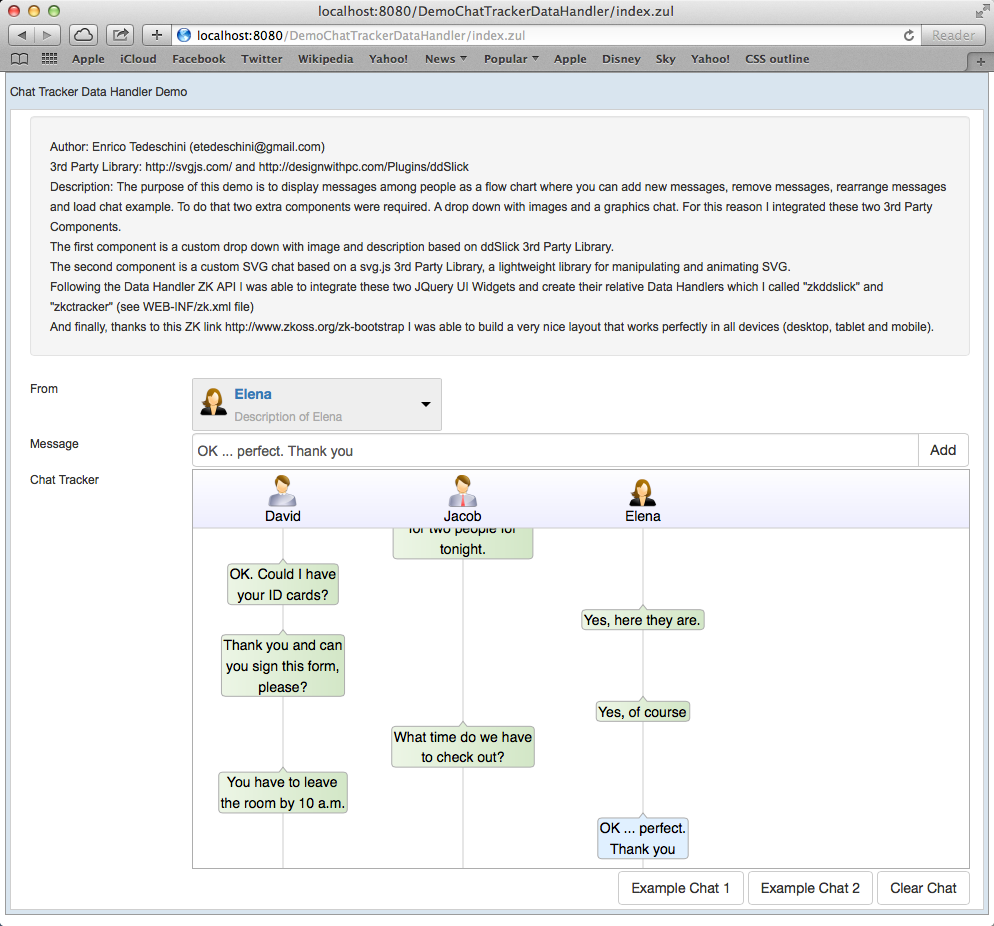
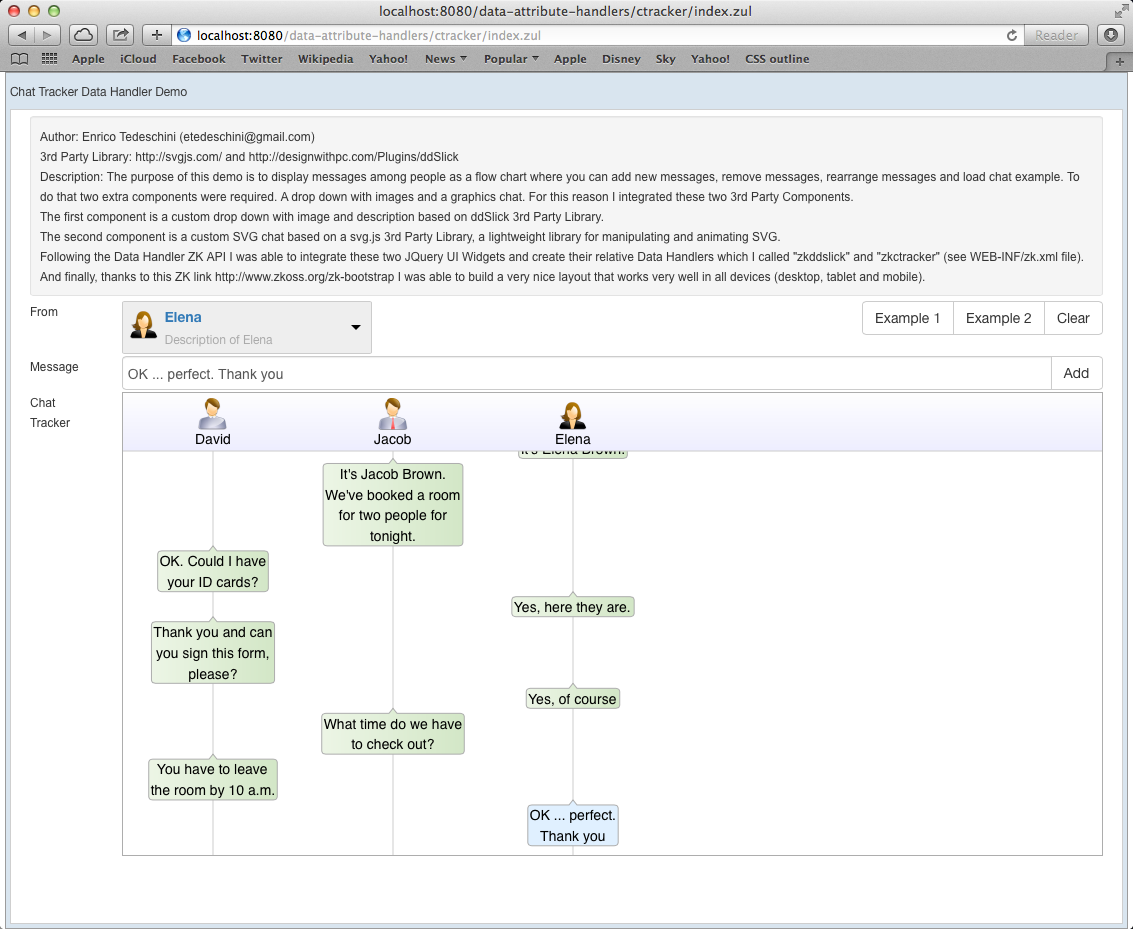
Update ctracker project
Add comments
Review page layout to work better in all devices
Update screenshot with new page layout
Add mobile screenshot

diff --git a/src/main/webapp/ctracker/js/jquery.ctracker.js b/src/main/webapp/ctracker/js/jquery.ctracker.js
@@ -36,8 +36,8 @@ $(function ($) {
         // Default settings
         defaults: {
 
-            width: 300,
-            height: 300,
+            width: 0,
+            height: 0,
             tabindex: 0,
             iconsDistance: 210,
             maxCharsPerLine: 20,
@@ -84,9 +84,13 @@ $(function ($) {
 
             // create div container with same id already assigned
             var $container = $('<div id="' + this.element.attr('id') + '"></div>')
-                .width(this.settings.width)
-                .height(this.settings.height)
                 .addClass('ctracker');
+            // set size if defined
+            if (this.settings.width)
+                container.width(this.settings.width);
+            if (this.settings.height)
+                container.height(this.settings.height);
+
             this.element.replaceWith($container);
             this.element = $container;
 
@@ -122,12 +126,13 @@ $(function ($) {
             })();
 
             // resize content to the new container size
+            /* Not required
             var self = this;
             $(window).resize(function () {
                 setTimeout (function () {
                     self._updateLayout();
                 }, 1000);
-            });
+            }); */
 
             // set initial values if available
             if (this.settings.data)
@@ -226,9 +231,25 @@ $(function ($) {
 
         /**
          * @public
+         * Set new widget height
+         */
+        setHeight: function (height) {
+
+            //if (console)
+            //    console.log("resize to height=" + height);
+
+            this.element.height(height);
+            this._updateLayout();
+        },
+
+        /**
+         * @public
          * Resize the widget
          */
         resize: function (width, height) {
+
+            //if (console)
+            //    console.log("resize to width=" + width + " and height=" + height);
 
             this.element.width(width);
             this.element.height(height);
@@ -382,13 +403,13 @@ $(function ($) {
 
         _updateLayout: function () {
 
-        	var extraSpace = 10;
+            var extraSpace = 10;
             var bbox = this._messagesLayer.bbox();
 
             // set width required
             var wRequired = 0;
             if (this._users && this._users.length > 0)
-            	this._users[this._users.length-1].x + (this.settings.iconsDistance / 2);
+                this._users[this._users.length-1].x + (this.settings.iconsDistance / 2);
             if (wRequired > 0)
                 wRequired += extraSpace;
             if (bbox.x2 > wRequired)     // special case where we have message too long
@@ -536,7 +557,7 @@ $(function ($) {
 
             // delete message
             if (this._isMouseOverTrash(p)) {
-            	// and synch the data model on server side
+                // and synch the data model on server side
                 this._deleteMessage(event.detail.event);
             }
             // position message to the closest vertical user line

diff --git a/src/main/webapp/ctracker/css/custom.css b/src/main/webapp/ctracker/css/custom.css
@@ -1,32 +1,72 @@
 /*
  * Application css for look and feel customization.
- * When we try to integrate different technologies and frameworks
+ * When we try to integrate different technologies, frameworks and devices
  * (ZK framework, JQuery UI, Boostrap, etc) sometimes happens that we have
  * unexpected behavior or unexpected look and feel.
  * Here is the right location where to fix these things
  */
 
+/* Example of different ctracker's background color with different
+   device and orientation
+*/
+
+ /* Tablet portrait */
+ @media screen and (max-width:1024px) {
+
+      .ctracker {
+         background: #045;
+     }
+ }
+
+ /* Tablet landscape */
+ @media screen and (min-width:768px) and (max-width:1024px) and (orientation:landscape) {
+
+    .ctracker {
+        background: #FFF;
+    }
+ }
+
+ /* Mobile portrait */
+ @media screen and (max-width:767px) {
+
+      .ctracker {
+          background: #045;
+      }
+ }
+
+ /* Mobile landscape */
+ @media screen and (min-width:320px) and (max-width:767px) and (orientation:landscape) {
+
+     .ctracker {
+         background: #FFF;
+     }
+ }
+
 .voffset  {
-	margin-top: 2px;
+    margin-top: 2px;
+}
+
+.well {
+    margin-bottom: 5px;
 }
 
 a {
-	color: #337ab7;
-	text-decoration: none;
+    color: #337ab7;
+    text-decoration: none;
 }
 
 a:hover,
 a:focus {
-	color: #23527c;
-	text-decoration: none;
+    color: #23527c;
+    text-decoration: none;
 }
 
 .dd-option-image, .dd-selected-image {
-	width: 32px;
-	height: 32px;
+    width: 32px;
+    height: 32px;
 }
 
 .dd-selected {
-	font-weight: normal;
-	padding: 5px;
+    font-weight: normal;
+    padding: 5px;
 }

diff --git a/src/main/webapp/ctracker/js/ctrackerHandler.js b/src/main/webapp/ctracker/js/ctrackerHandler.js
@@ -21,8 +21,8 @@ function (wgt, dataValue) {
     // initialize ctracker
     wgt._$handle = jq(dom).ctracker({
         data: dataObj,
-        width: wgt.getWidth() || 300,            // I try to inherit width from zk component
-        height: wgt.getHeight() || 300,          // I try to inherit height from zk component
+        //width: wgt.getWidth() || 300,            // I try to inherit width from zk component
+        //height: wgt.getHeight() || 300,          // I try to inherit height from zk component
         tabindex: wgt.getTabindex() || 0,        // I try to inherit tab order from zk component
         iconsDistance: settings.iconsDistance || 180,
         maxCharsPerLine: settings.maxCharsPerLine || 30,
@@ -84,5 +84,12 @@ function (wgt, dataValue) {
         wgt._$handle.ctracker("setValue", dataObj);
     };
 
+    var setHeightChat = function (value) {
+
+        wgt._$handle.ctracker("setHeight", value);
+    }
+
     wgt.setOverride("setValue", setValueChat);
+
+    wgt.setOverride("setHeight", setHeightChat);
 }
